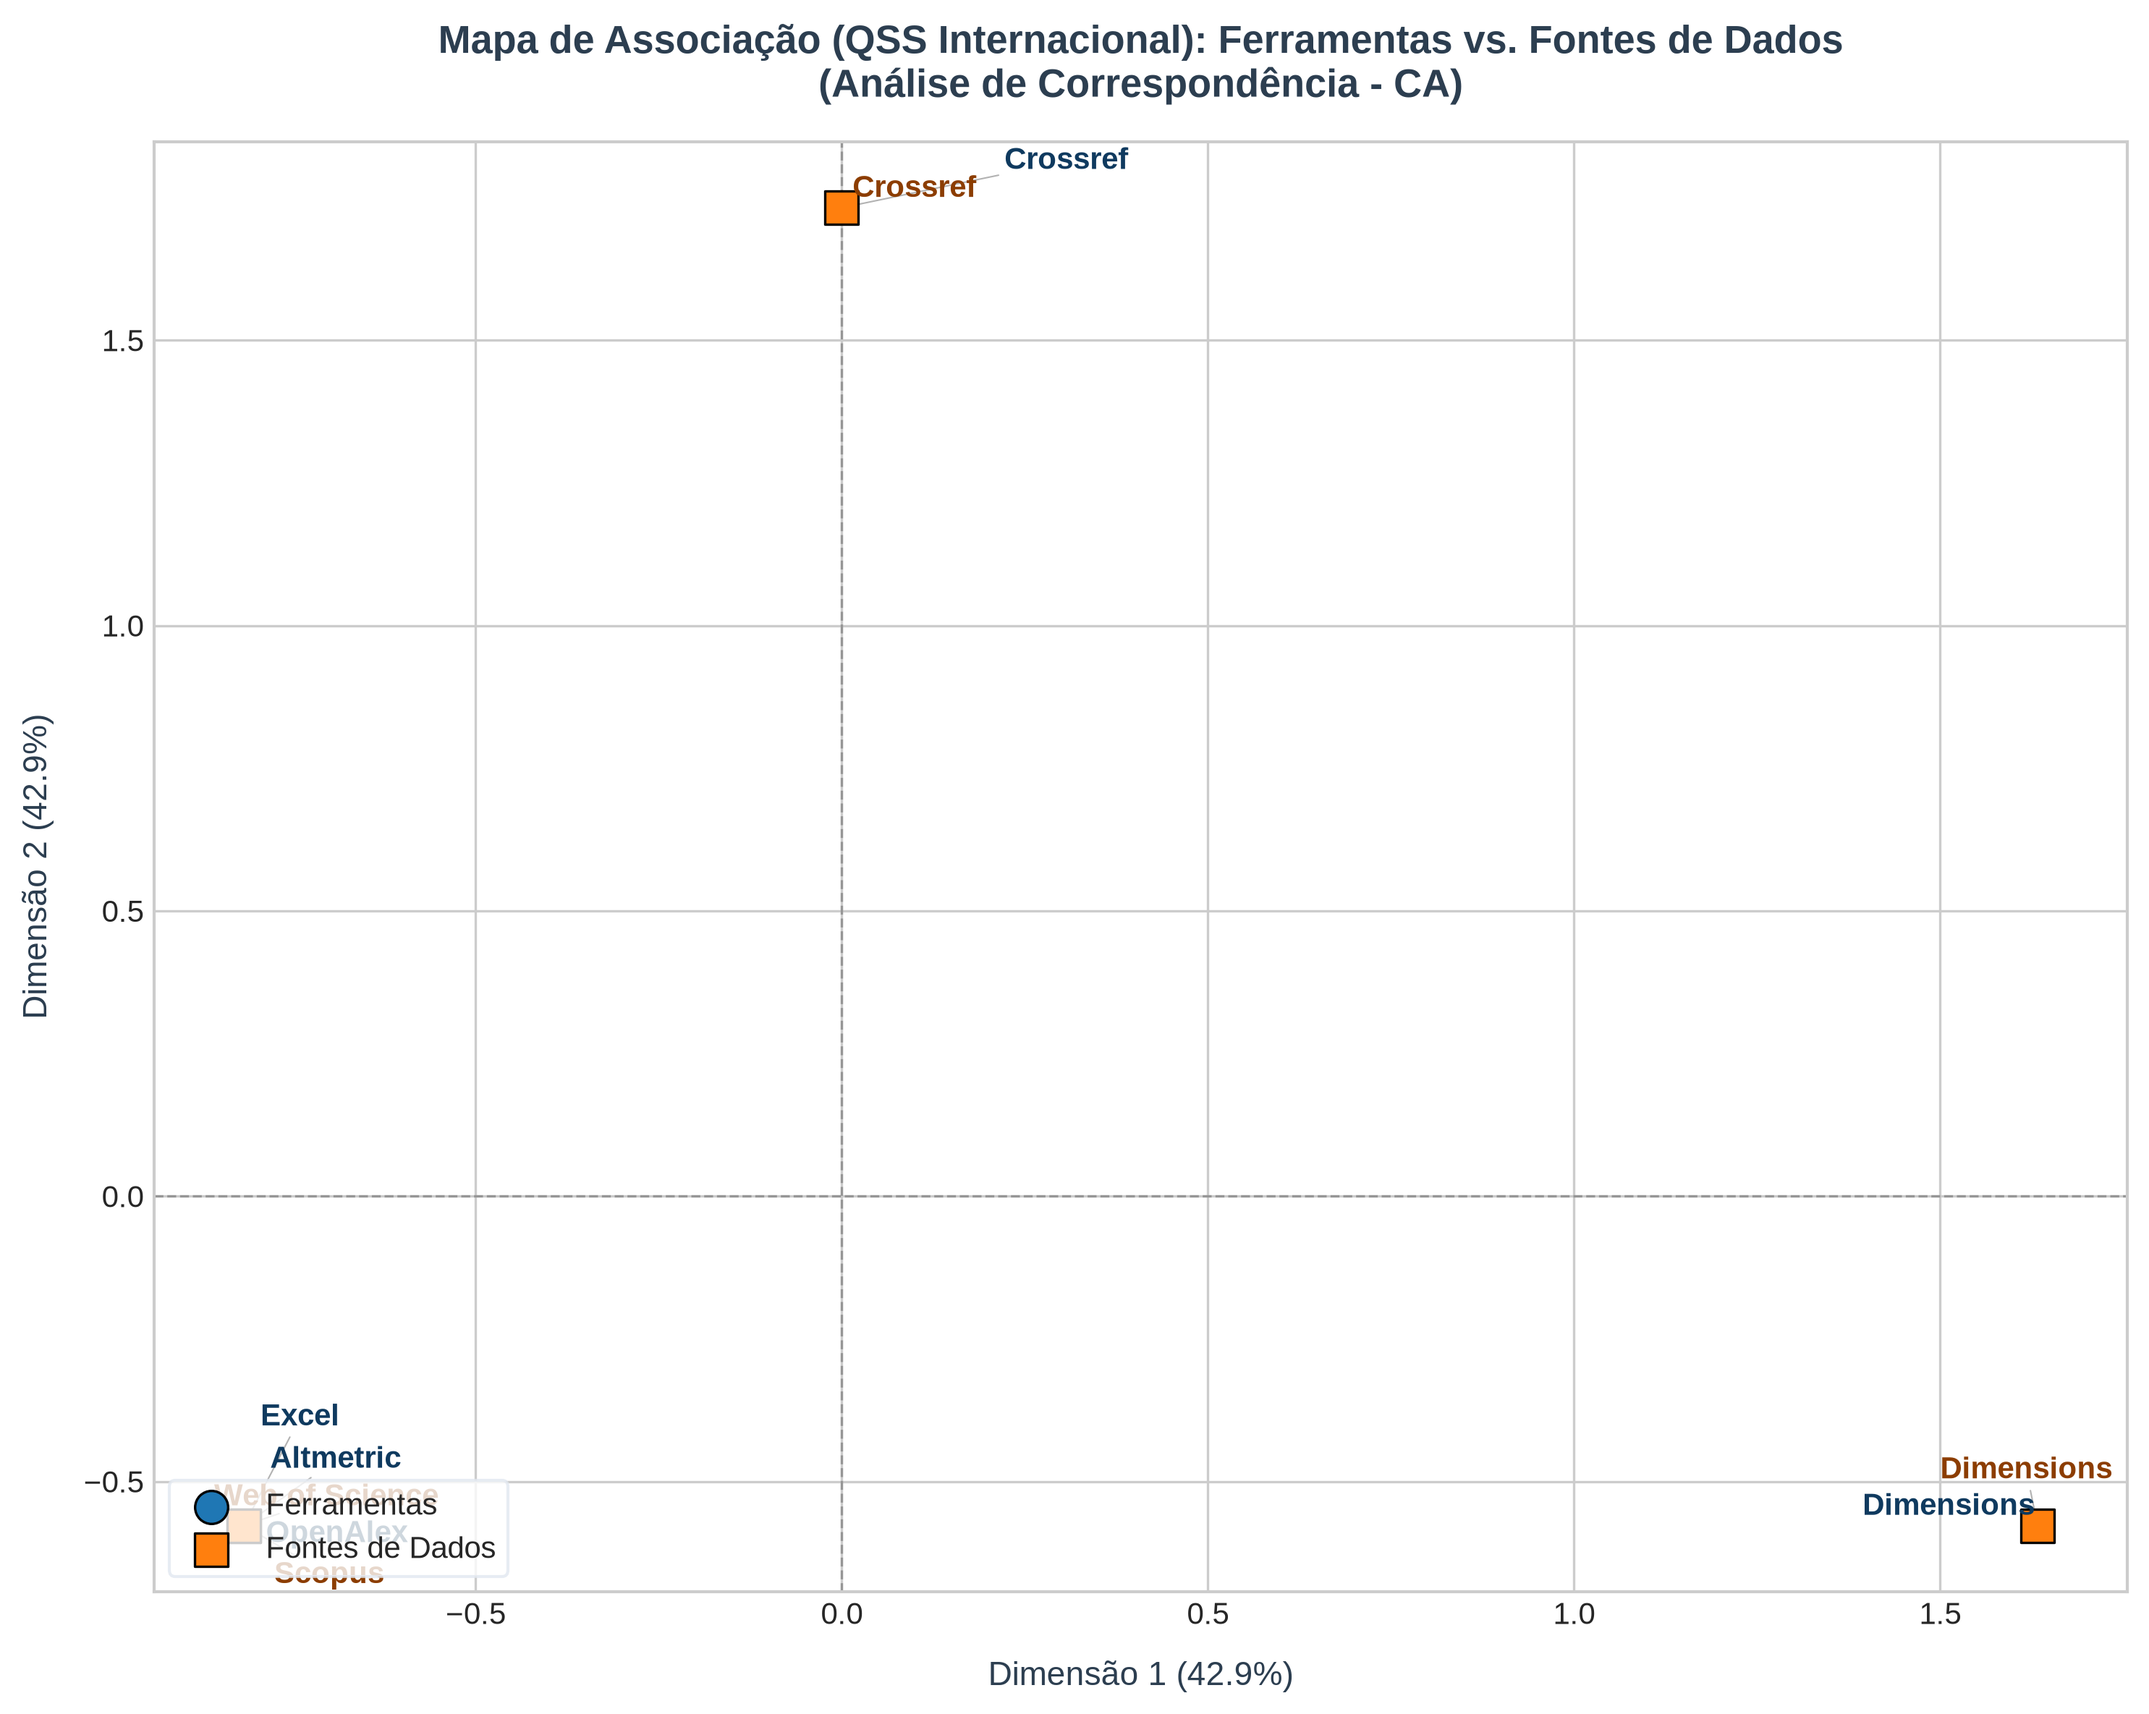
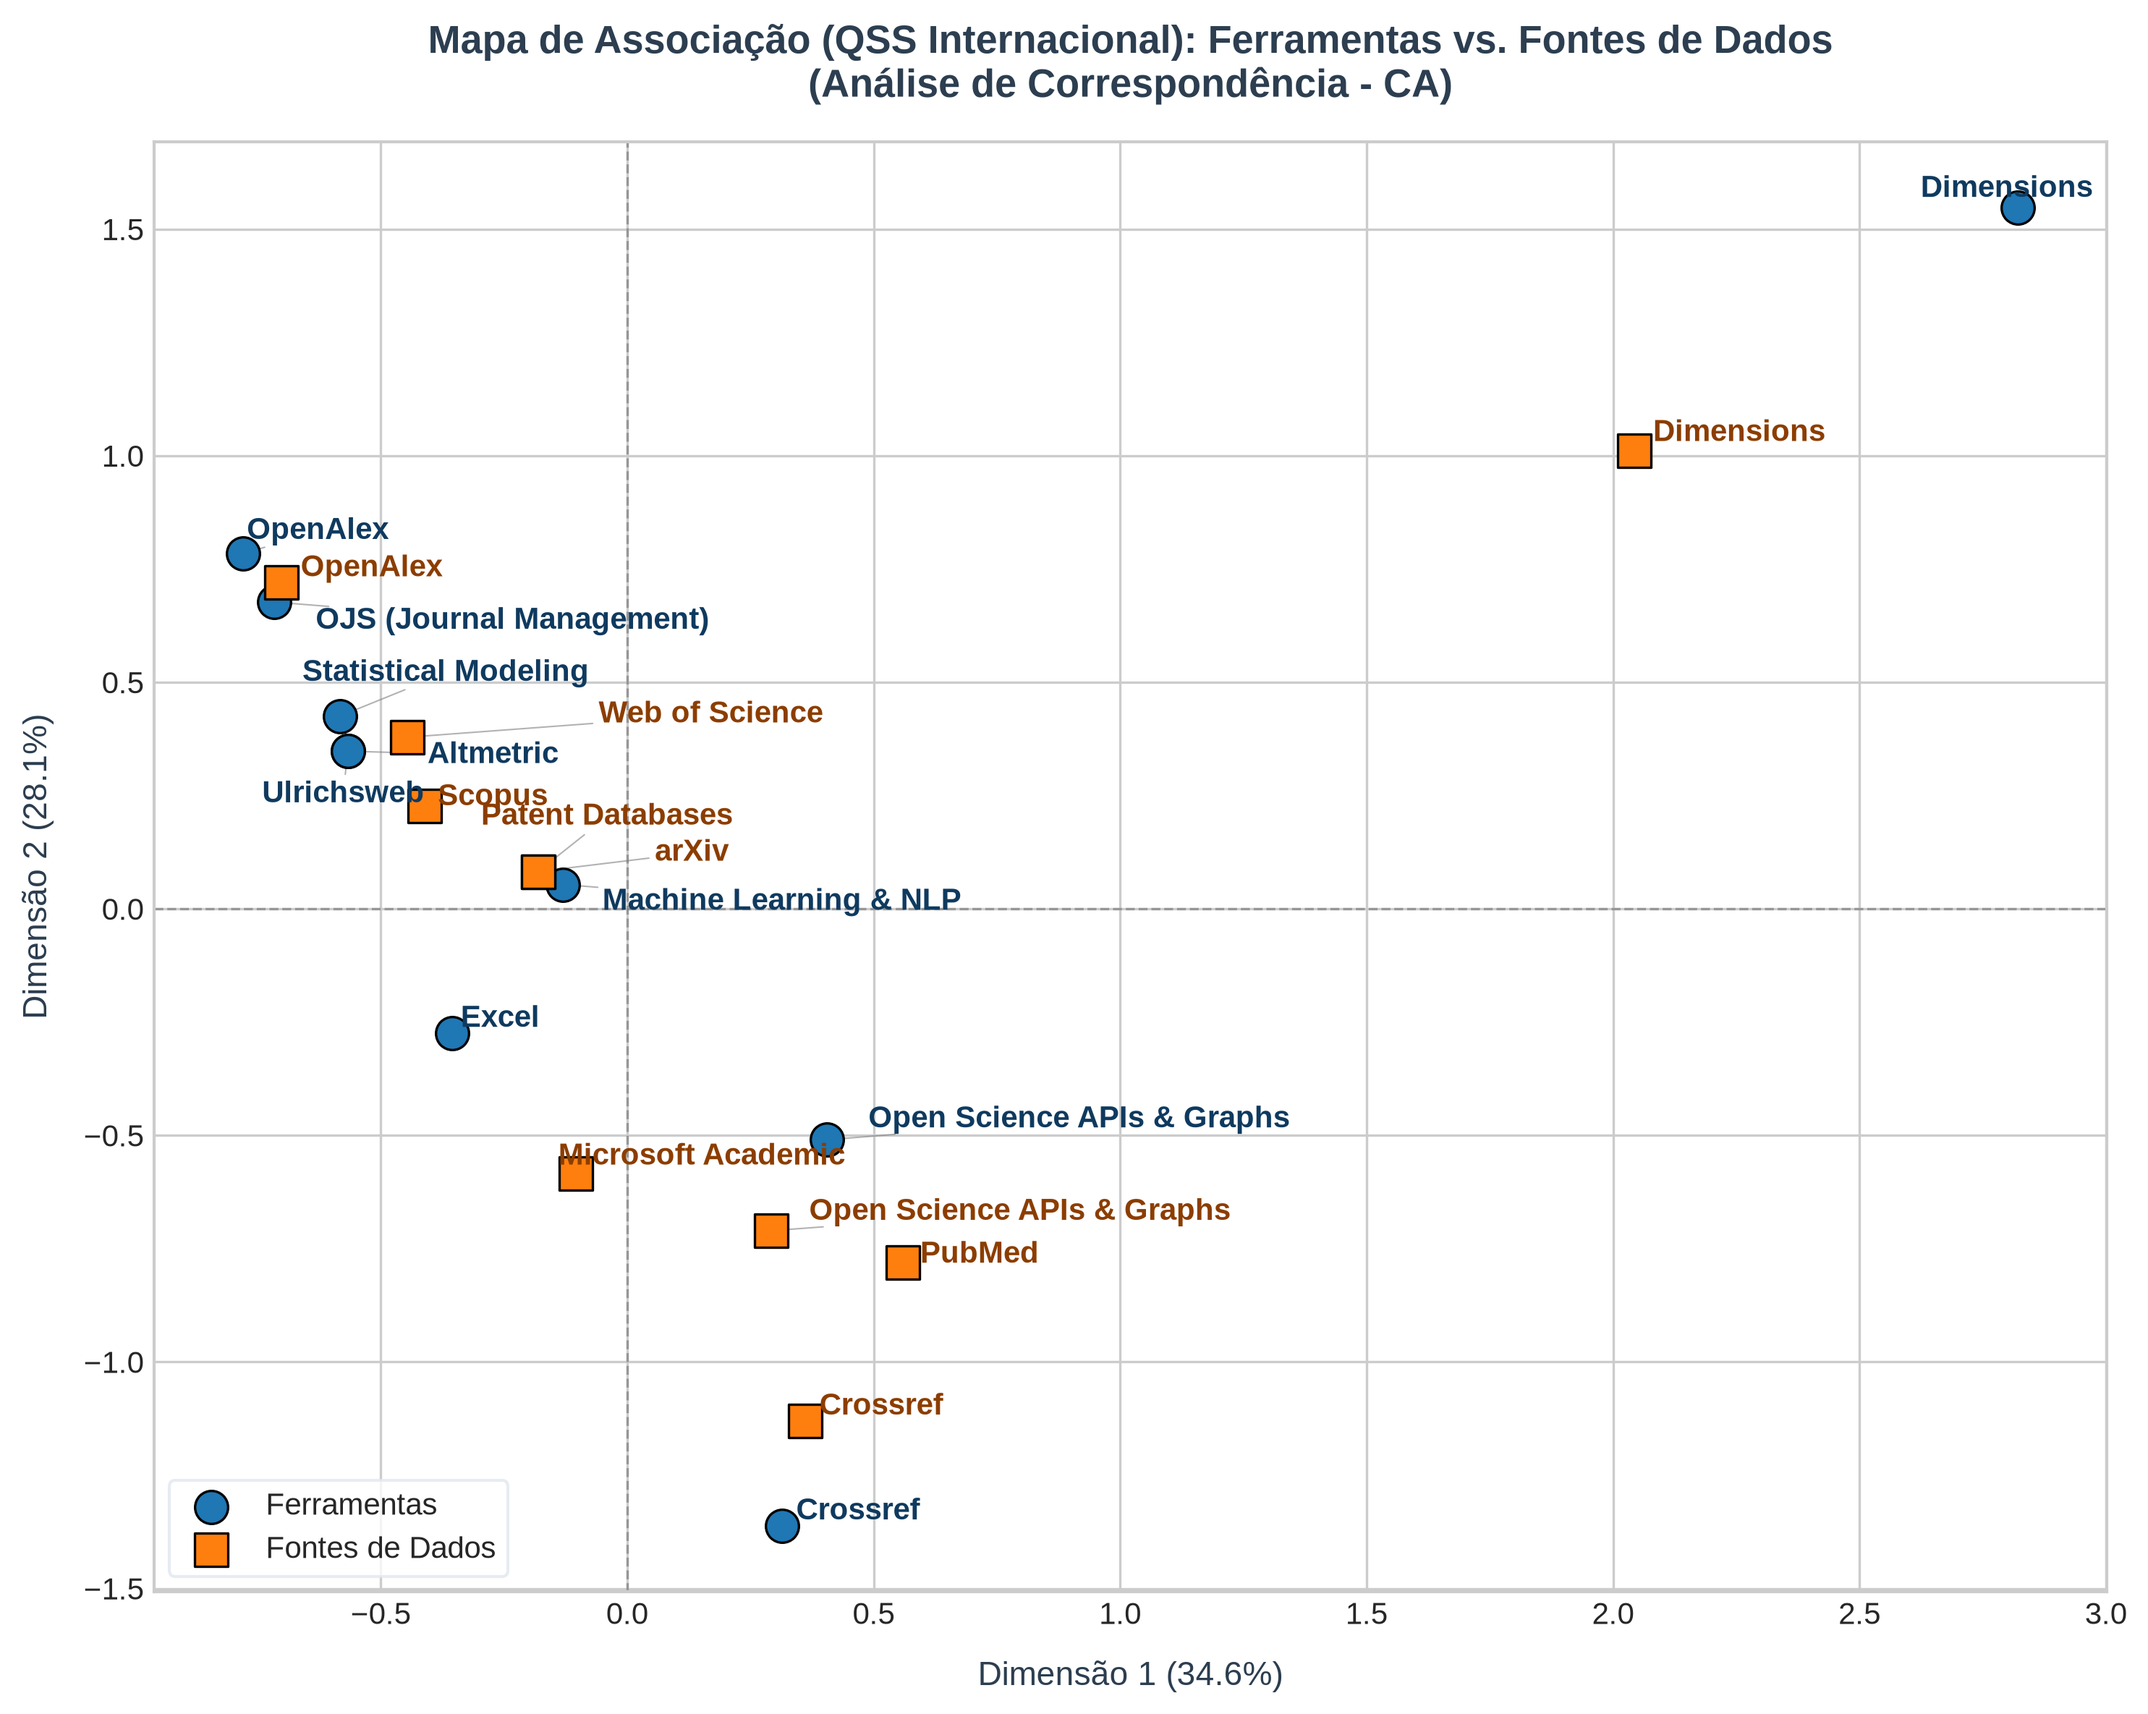
feat: expand correspondence analysis mapping for QSS and regenerate plots

diff --git a/scripts/correspondence_analysis.py b/scripts/correspondence_analysis.py
@@ -38,14 +38,31 @@ def map_tool(clean_text):
         return 'Stata'
     if 'bibliometrix' in text or 'biblioshiny' in text:
         return 'Bibliometrix (R)'
-    if re.search(r'\bpython\b', text):
-        return 'Python'
-    if re.search(r'\br\b|r-based|r packages|r package|r programming', text):
-        return 'R'
     if 'excel' in text:
         return 'Excel'
     if 'altmetric' in text:
         return 'Altmetric'
+    
+    # NLP, Machine Learning e Algoritmos Avançados (Comuns no QSS)
+    if any(x in text for x in ['bert', 'gpt', 'openai', 'llm', 'machine learning', 'gradient boosting', 'random forest', 'naive bayes', 'neural network', 'classification']):
+        return 'Machine Learning & NLP'
+    if any(x in text for x in ['leiden algorithm', 'louvain algorithm', 'pagerank', 'k-core', 'overlapping clusters', 'community detection', 'network analysis', 'aoc']):
+        return 'Network & Clustering'
+    if any(x in text for x in ['unpaywall', 'openaire', 'opencitations', 'api', 'sparql', 'rest api']):
+        return 'Open Science APIs & Graphs'
+    if any(x in text for x in ['gender-api', 'genderize', 'namsor', 'ethnicity', 'gender inference']):
+        return 'Gender & Name Inference'
+    if any(x in text for x in ['regression', 'factor analysis', 'matching design', 'statistical modeling', 'statistical analysis', 'econometric', 'anova']):
+        return 'Statistical Modeling'
+    if 'open journal systems' in text or 'ojs' in text:
+        return 'OJS (Journal Management)'
+    if 'ulrichsweb' in text:
+        return 'Ulrichsweb'
+    
+    if re.search(r'\bpython\b', text):
+        return 'Python'
+    if re.search(r'\br\b|r-based|r packages|r package|r programming', text):
+        return 'R'
     if 'crossref' in text:
         return 'Crossref'
     if 'dimensions' in text:
@@ -56,7 +73,7 @@ def map_tool(clean_text):
 
 def map_source(clean_text):
     text = clean_text.lower()
-    if 'web of science' in text or 'wos' in text:
+    if 'web of science' in text or 'wos' in text or 'science citation index' in text:
         return 'Web of Science'
     if 'scopus' in text:
         return 'Scopus'
@@ -76,7 +93,7 @@ def map_source(clean_text):
         return 'SciELO'
     if 'google scholar' in text or 'google academico' in text or 'google acadêmico' in text:
         return 'Google Scholar'
-    if 'microsoft academic' in text or 'mag' in text:
+    if 'microsoft academic' in text or 'mag' in text or 'makg' in text:
         return 'Microsoft Academic'
     if 'cnpq' in text:
         return 'CNPq'
@@ -88,6 +105,10 @@ def map_source(clean_text):
         return 'arXiv'
     if 'twitter' in text:
         return 'Twitter'
+    if 'usproto' in text or 'uspto' in text or 'patent' in text or 'patents' in text:
+        return 'Patent Databases'
+    if any(x in text for x in ['openaire', 'opencitations', 'unpaywall']):
+        return 'Open Science APIs & Graphs'
     return None
 
 def clean_and_split(text):
@@ -137,7 +158,7 @@ def run_ca_and_plot(df_pairs, tools_to_keep, sources_to_keep, output_path, artif
     # Montar tabela de contingência
     contingency_table = pd.crosstab(df_pairs["Ferramenta"], df_pairs["Fonte"])
     
-    # Filtrar
+    # Filtrar pelas categorias de interesse
     valid_tools = [t for t in tools_to_keep if t in contingency_table.index]
     valid_sources = [s for s in sources_to_keep if s in contingency_table.columns]
     
@@ -254,16 +275,32 @@ def main():
     
     # Listas de categorias a incluir em cada tipo de gráfico
     # 1. COMBINADO
-    tools_combined = ['VOSviewer', 'Python', 'ScriptLattes', 'IRaMuTeQ', 'UCINET', 'SciVal', 'Excel', 'Bibliometrix (R)', 'Pajek', 'Altmetric']
-    sources_combined = ['Scopus', 'Web of Science', 'Plataforma Lattes', 'CNPq', 'Brapci', 'SciELO', 'OpenAlex']
+    tools_combined = [
+        'VOSviewer', 'Python', 'ScriptLattes', 'IRaMuTeQ', 'UCINET', 'SciVal', 'Excel', 'Bibliometrix (R)', 'Pajek', 'Altmetric',
+        'Machine Learning & NLP', 'Open Science APIs & Graphs', 'Gender & Name Inference', 'Statistical Modeling',
+        'OJS (Journal Management)', 'Ulrichsweb', 'R'
+    ]
+    sources_combined = [
+        'Scopus', 'Web of Science', 'Plataforma Lattes', 'CNPq', 'Brapci', 'SciELO', 'OpenAlex',
+        'Microsoft Academic', 'PubMed', 'Google Scholar', 'Crossref', 'Dimensions', 'arXiv',
+        'Patent Databases', 'Open Science APIs & Graphs'
+    ]
     
-    # 2. EBBC (focando no componente conectado principal para evitar distorção por outliers como Gephi/Twitter)
+    # 2. EBBC (focando no componente conectado principal de bibliometria prática)
     tools_ebbc = ['VOSviewer', 'Python', 'ScriptLattes', 'IRaMuTeQ', 'UCINET', 'SciVal', 'Excel', 'Bibliometrix (R)', 'Pajek', 'Altmetric']
     sources_ebbc = ['Scopus', 'Web of Science', 'Plataforma Lattes', 'CNPq', 'Brapci', 'SciELO', 'OpenAlex']
     
-    # 3. QSS (como tem poucos pares, mantemos todos os disponíveis que co-ocorrem pelo menos 1 vez)
-    tools_qss = ['Altmetric', 'Crossref', 'Dimensions', 'Excel', 'OpenAlex']
-    sources_qss = ['Crossref', 'Dimensions', 'Scopus', 'Web of Science']
+    # 3. QSS (Focando na cientometria internacional avançada)
+    tools_qss = [
+        'Altmetric', 'Crossref', 'Dimensions', 'Excel', 'OpenAlex',
+        'Machine Learning & NLP', 'Open Science APIs & Graphs', 'Gender & Name Inference', 'Statistical Modeling',
+        'OJS (Journal Management)', 'Ulrichsweb', 'Python', 'R'
+    ]
+    sources_qss = [
+        'Crossref', 'Dimensions', 'Scopus', 'Web of Science', 'OpenAlex',
+        'Microsoft Academic', 'PubMed', 'Google Scholar', 'arXiv',
+        'Patent Databases', 'Open Science APIs & Graphs'
+    ]
     
     # --- Executar Análises ---
     
@@ -273,7 +310,7 @@ def main():
                     os.path.join(ROOT_DIR, "ca_biplot_combined.png"), 
                     os.path.join(ART_DIR, "ca_biplot_combined.png"), 
                     "Combinado QSS + EBBC")
-    # Copiar para ca_biplot.png original
+    
     run_ca_and_plot(df_combined, tools_combined, sources_combined, 
                     os.path.join(ROOT_DIR, "ca_biplot.png"), 
                     os.path.join(ART_DIR, "ca_biplot.png"), 
